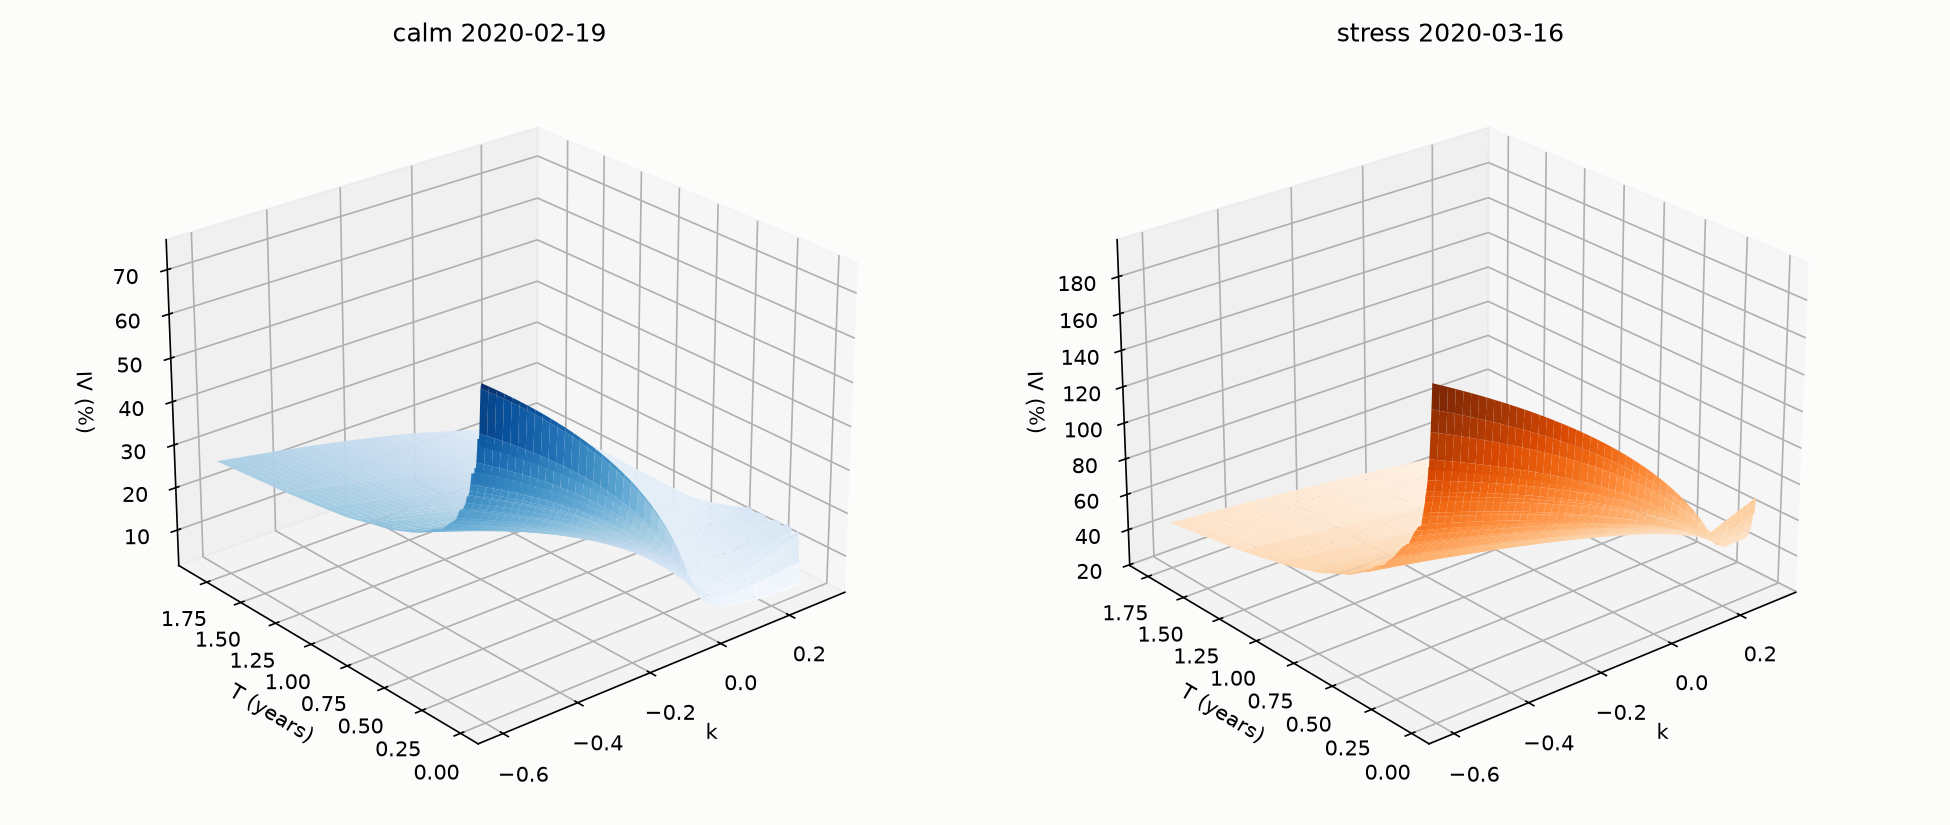
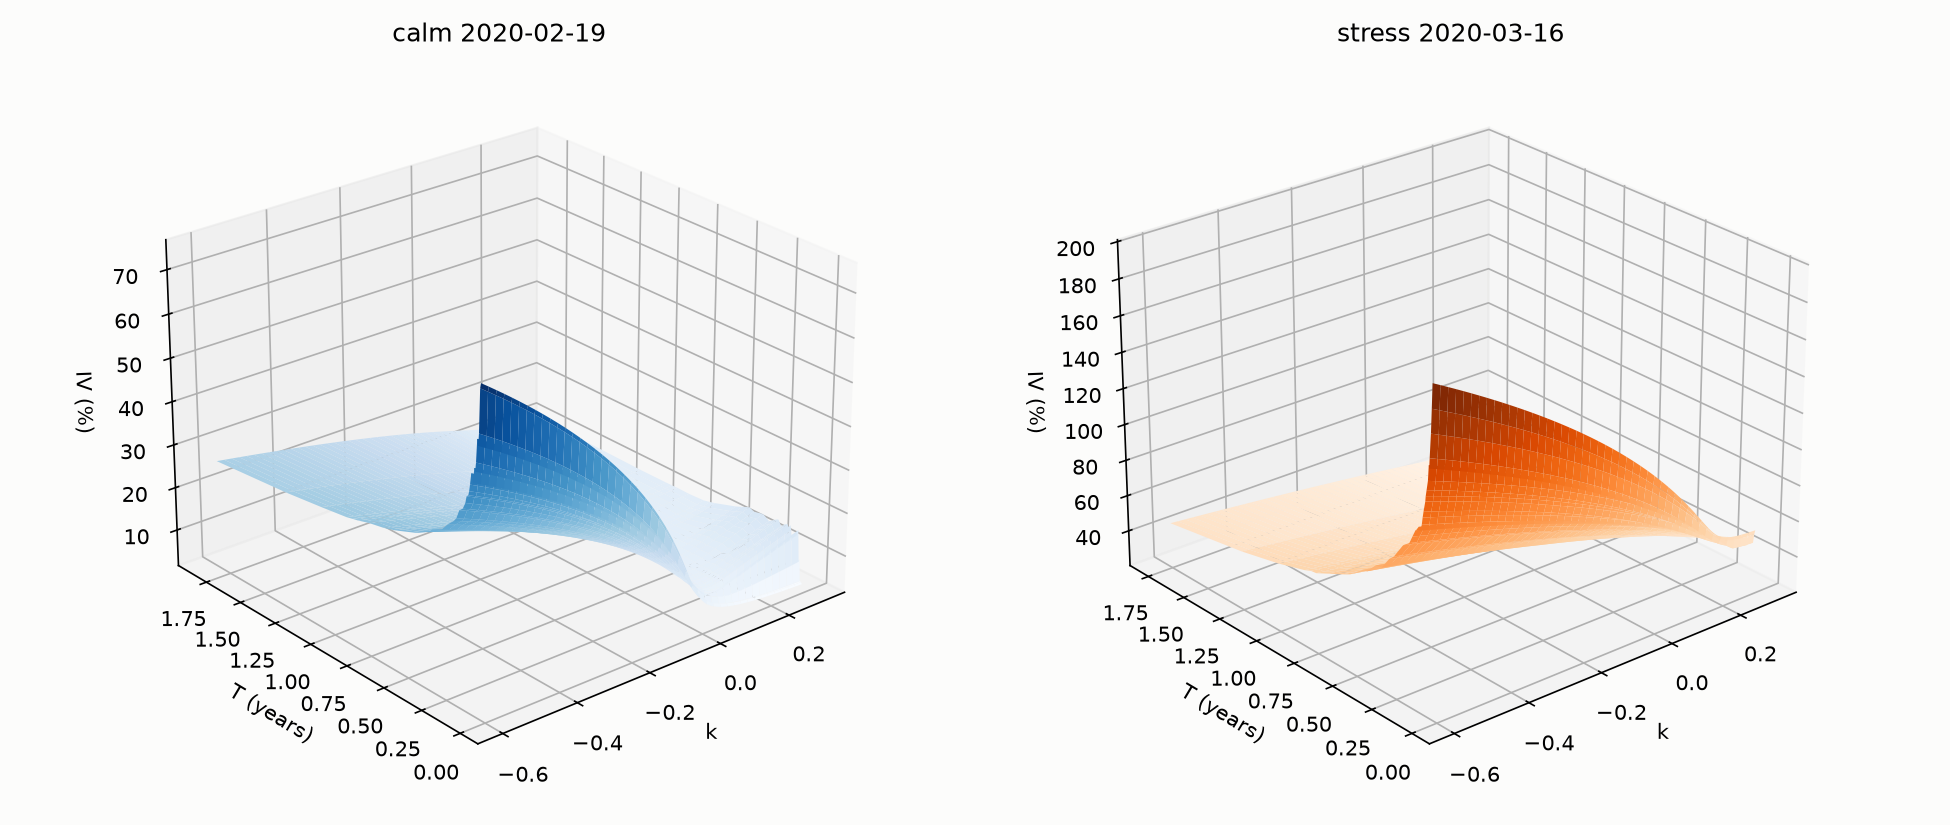
Floor SVI sigma at 0.25 x ATM sd to remove the degenerate kink on stress-day slices

diff --git a/src/spxvol/svi.py b/src/spxvol/svi.py
@@ -24,12 +24,12 @@ def svi_g(k, p):
     return (1 - k * w1 / (2 * w)) ** 2 - w1**2 / 4 * (1 / w + 0.25) + w2 / 2
 
 
-def fit_svi(k, w, weights=None):
-    """Weighted least squares in total variance. Bounds a >= 0 and m inside the quoted
-    k range stop the fit landing on the far branch of the hyperbola (rho ~ +1)."""
+def fit_svi(k, w, weights=None, sigma_min=1e-4):
+    """Weighted least squares in total variance. Bounds a >= 0 and m inside the quoted k range
+    keep the fit off the far branch of the hyperbola; sigma_min sets the minimum kink width."""
     k, w = np.asarray(k, float), np.asarray(w, float)
     sw = np.ones_like(k) if weights is None else np.sqrt(np.asarray(weights, float))
-    lb = [0.0, 0.0, -0.999, k.min(), 1e-4]
+    lb = [0.0, 0.0, -0.999, k.min(), sigma_min]
     ub = [np.inf, np.inf, 0.999, k.max(), 2.0]
 
     def resid(p):
@@ -38,7 +38,7 @@ def fit_svi(k, w, weights=None):
     best = None
     for rho0 in (-0.7, -0.3, 0.0):
         for m0 in (-0.1, 0.0, 0.1):
-            x0 = [0.5 * w.min(), 0.1, rho0, np.clip(m0, k.min(), k.max()), 0.1]
+            x0 = [0.5 * w.min(), 0.1, rho0, np.clip(m0, k.min(), k.max()), max(0.1, sigma_min)]
             res = least_squares(resid, x0, bounds=(lb, ub))
             if best is None or res.cost < best.cost:
                 best = res

diff --git a/src/spxvol/surface.py b/src/spxvol/surface.py
@@ -6,16 +6,18 @@ import pandas as pd
 from .svi import fit_svi, svi_g, svi_w
 
 K_CORE = (-0.6, 0.3)
+SIGMA_FLOOR = 0.25  # min SVI kink width as a multiple of the ATM standard deviation sqrt(w_atm)
 PARAMS = ["a", "b", "rho", "m", "sigma"]
 
 
 def fit_slices(otm: pd.DataFrame) -> pd.DataFrame:
-    """Precision-weighted SVI per expiry, with RMSE in vol points and min g(k)."""
+    """Precision-weighted SVI per expiry with a sigma floor, RMSE in vol points and min g(k)."""
     rows = []
     for exdate, g in otm.groupby("exdate"):
         c = g[(g.k >= K_CORE[0]) & (g.k <= K_CORE[1])]
         T = c["T"].iloc[0]
-        p = fit_svi(c.k, c.w, 1 / c.w_sd.clip(lower=1e-6) ** 2)
+        sigma_min = SIGMA_FLOOR * np.sqrt(np.interp(0.0, c.k, c.w))
+        p = fit_svi(c.k, c.w, 1 / c.w_sd.clip(lower=1e-6) ** 2, sigma_min)
         err_vp = 100 * (np.sqrt(svi_w(c.k, p) / T) - c.iv)
         rows.append(dict(exdate=exdate, T=T, F=c.F.iloc[0], D=c.D.iloc[0], n=len(c), k_min=c.k.min(), k_max=c.k.max(),
                          **dict(zip(PARAMS, p)), rmse_vp=np.sqrt(np.mean(err_vp**2)),

diff --git a/README.md b/README.md
@@ -35,10 +35,13 @@ gitignored because OptionMetrics data cannot be redistributed.
 ![surface](figures/step2_surface.png)
 
 - Raw SVI per expiry, fitted on strikes 55% to 135% of the forward, each quote weighted by the
-  precision implied by its bid-ask. Mean fit error 0.8 vol points on the calm day, 1.8 on the stress day.
-- No butterfly violations. Calendar violations between adjacent expiries are small (worst 0.0014
-  in total variance on the calm day, 0.019 on the stress day) and removed by a running maximum in T.
+  precision implied by its bid-ask. Mean fit error 0.8 vol points on the calm day, 2.2 on the stress day.
 - SVI is convex in total variance; the stress-day put wing is concave, which is the whole fit error.
+  Left alone, the optimiser answers with a straight line and a zero-width kink at the edge of the
+  range, which is a point mass in the density. A floor on sigma of 0.25 x sigma_ATM sqrt(T) removes it
+  at a cost of 0.3 vol points on the stress day and nothing on the calm day.
+- No butterfly violations. Calendar violations between adjacent expiries are small (worst 0.0014
+  in total variance on the calm day, 0.015 on the stress day) and removed by a running maximum in T.
 
 ## Step 3: risk-neutral density
 
@@ -51,8 +54,8 @@ Mass integrates to 1.000 and the mean equals the forward on every slice.
 |---|---|---|---|---|---|---|
 | calm | 1M | 11% | -3.4 | 23 | 2.6% / 0.1% | 0.5% / 0.0% |
 | calm | 3M | 12% | -2.9 | 16 | 7.5% / 4.2% | 2.2% / 0.0% |
-| stress | 1M | 78% | -1.9 | 5.7 | 29% / 36% | 18% / 19% |
-| stress | 3M | 63% | -2.1 | 5.8 | 33% / 43% | 25% / 30% |
+| stress | 1M | 78% | -1.9 | 5.9 | 29% / 36% | 18% / 19% |
+| stress | 3M | 63% | -2.1 | 6.1 | 32% / 43% | 24% / 30% |
 
 - On the calm day the lognormal at ATM vol gives a 20% fall essentially zero probability; the market
   gives it 0.5% at one month and 2.2% at three. The skew is the whole crash premium.
